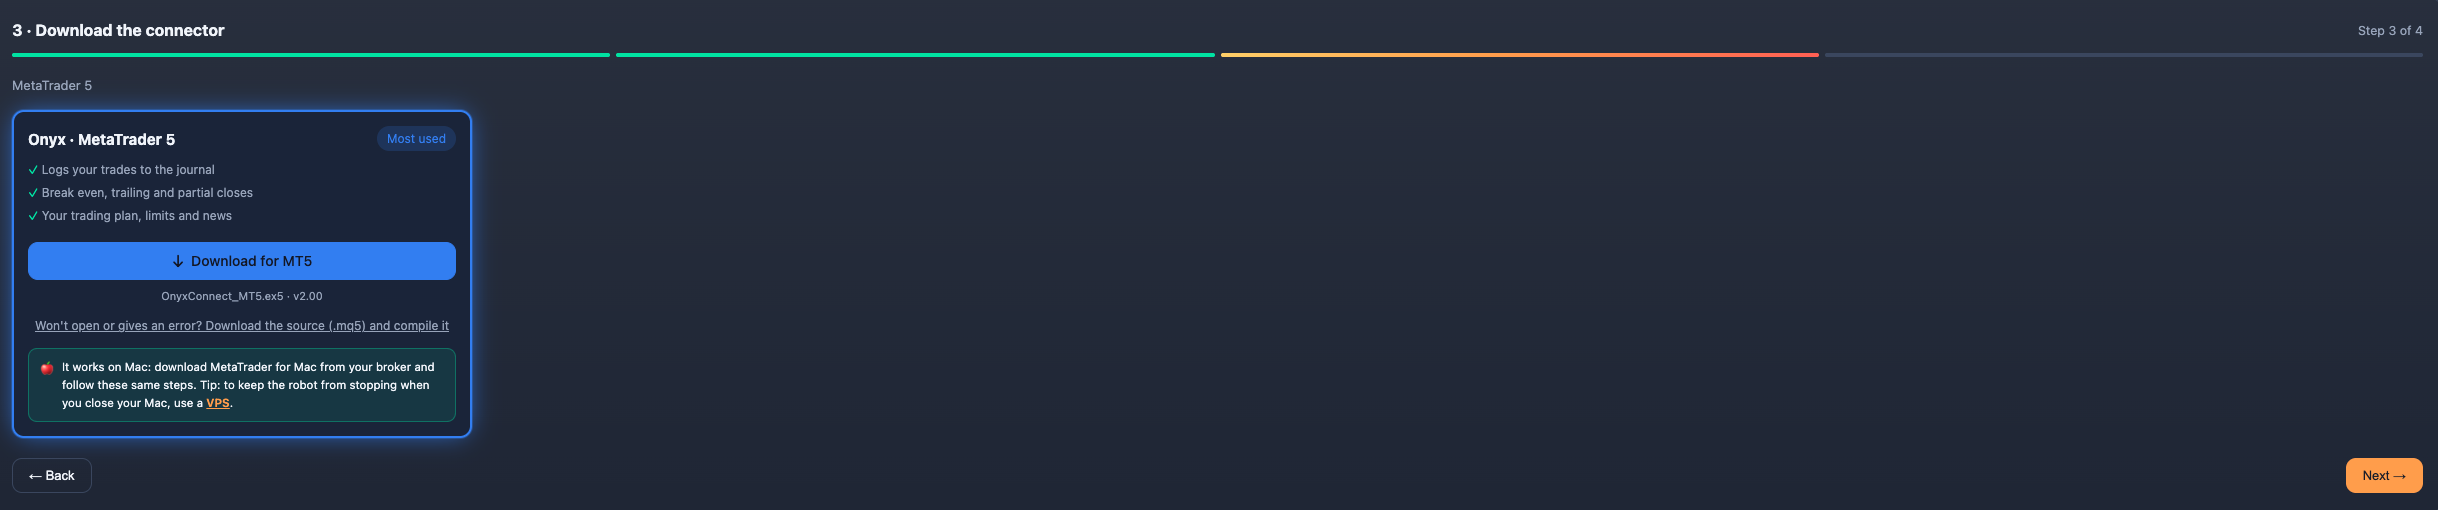
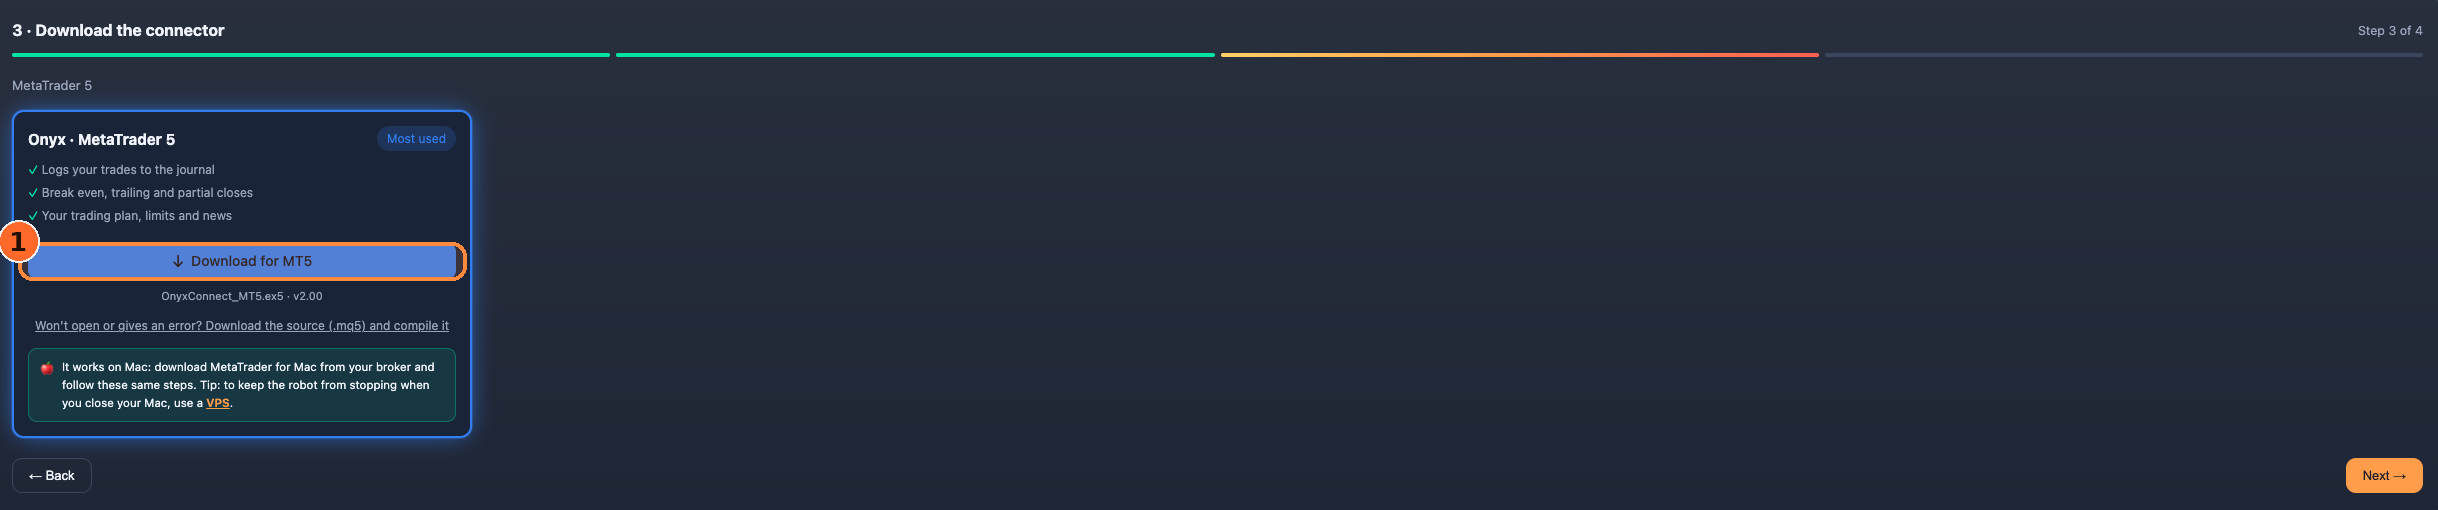
adff

Changed region(s): [[0.0, 0.4412, 0.2182, 0.5588]]

diff --git a/app/como-usar/page.tsx b/app/como-usar/page.tsx
@@ -25,7 +25,7 @@ type Cat = { es: string; en: string; guides: Guide[] };
 
 // Sube este número cada vez que reemplaces una captura en /public/guia-img/
 // para forzar que el navegador descargue la versión nueva (evita caché viejo).
-const IMG_V = '7';
+const IMG_V = '8';
 
 const CATS: Cat[] = [
   {
@@ -312,11 +312,7 @@ export default function ComoUsar() {
               <div style={{ display: 'none', minHeight: 320, alignItems: 'center', justifyContent: 'center', gap: 8, color: 'var(--mut)', fontSize: 14, padding: 24, textAlign: 'center' }}>
                 <span><OnyxIcon emoji="🖼" size={24} glow={false} /> {L('Falta la captura', 'Screenshot pending')}: <code className="code">/public/{st.img}</code></span>
               </div>
-              {st.markers?.map((m, j) => (
-                <span key={j} className="mk" style={{ left: m.x + '%', top: m.y + '%', width: (m.w ?? 11) + '%', height: (m.h ?? 8) + '%' }}>
-                  <span className="badge">{m.n ?? j + 1}</span>
-                </span>
-              ))}
+              {/* Los marcadores van horneados en la propia imagen (alineación perfecta). La leyenda numerada va debajo. */}
             </div>
             {/* Leyenda numerada DEBAJO de la foto: nunca tapa el contenido */}
             {st.markers && st.markers.length > 0 && (
@@ -368,11 +364,6 @@ export default function ComoUsar() {
         <div className="zoomwrap" onClick={() => setZoom(false)}>
           <div className="zbox" onClick={(e) => e.stopPropagation()}>
             <img src={'/' + st.img + '?v=' + IMG_V} alt={L(st.es, st.en)} />
-            {st.markers?.map((m, i) => (
-              <span key={i} className="mk" style={{ left: m.x + '%', top: m.y + '%', width: (m.w ?? 11) + '%', height: (m.h ?? 8) + '%' }}>
-                <span className="badge">{m.n ?? i + 1}</span>
-              </span>
-            ))}
             <button className="zclose" aria-label={L('Cerrar', 'Close')} onClick={() => setZoom(false)}>✕</button>
           </div>
           <div className="zhint">{L('Toca fuera o pulsa Esc para cerrar', 'Tap outside or press Esc to close')}</div>
